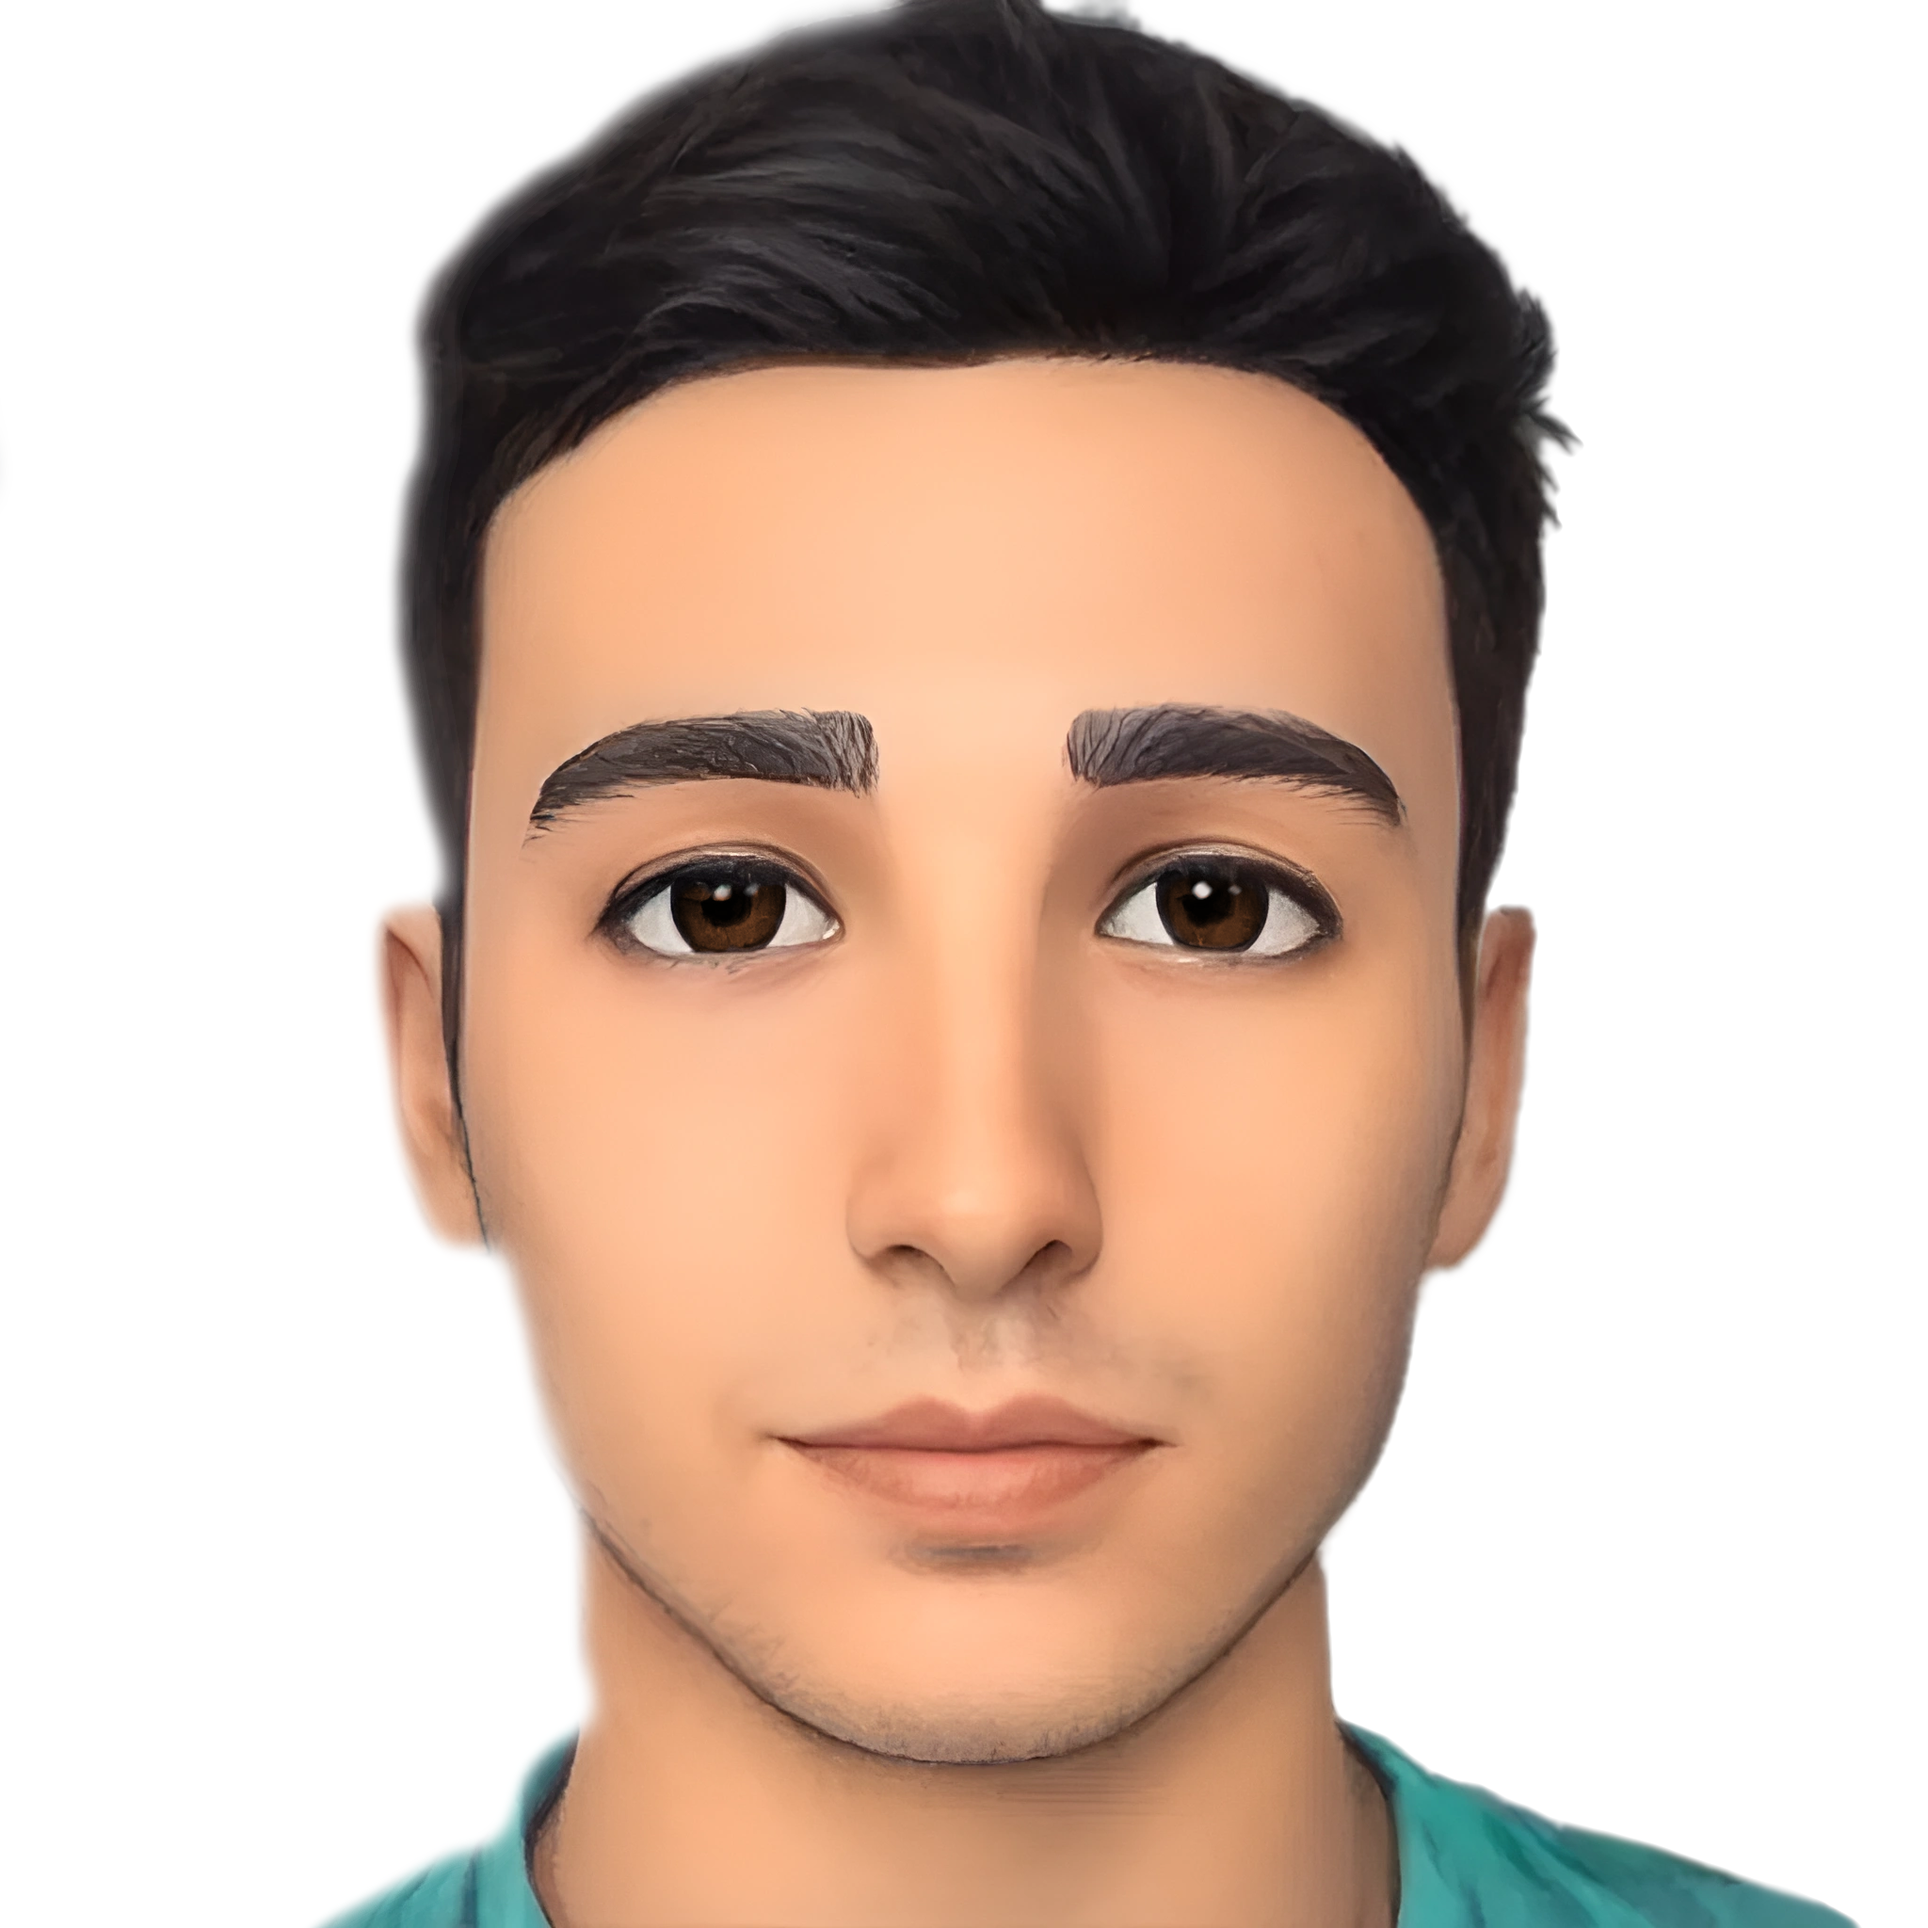
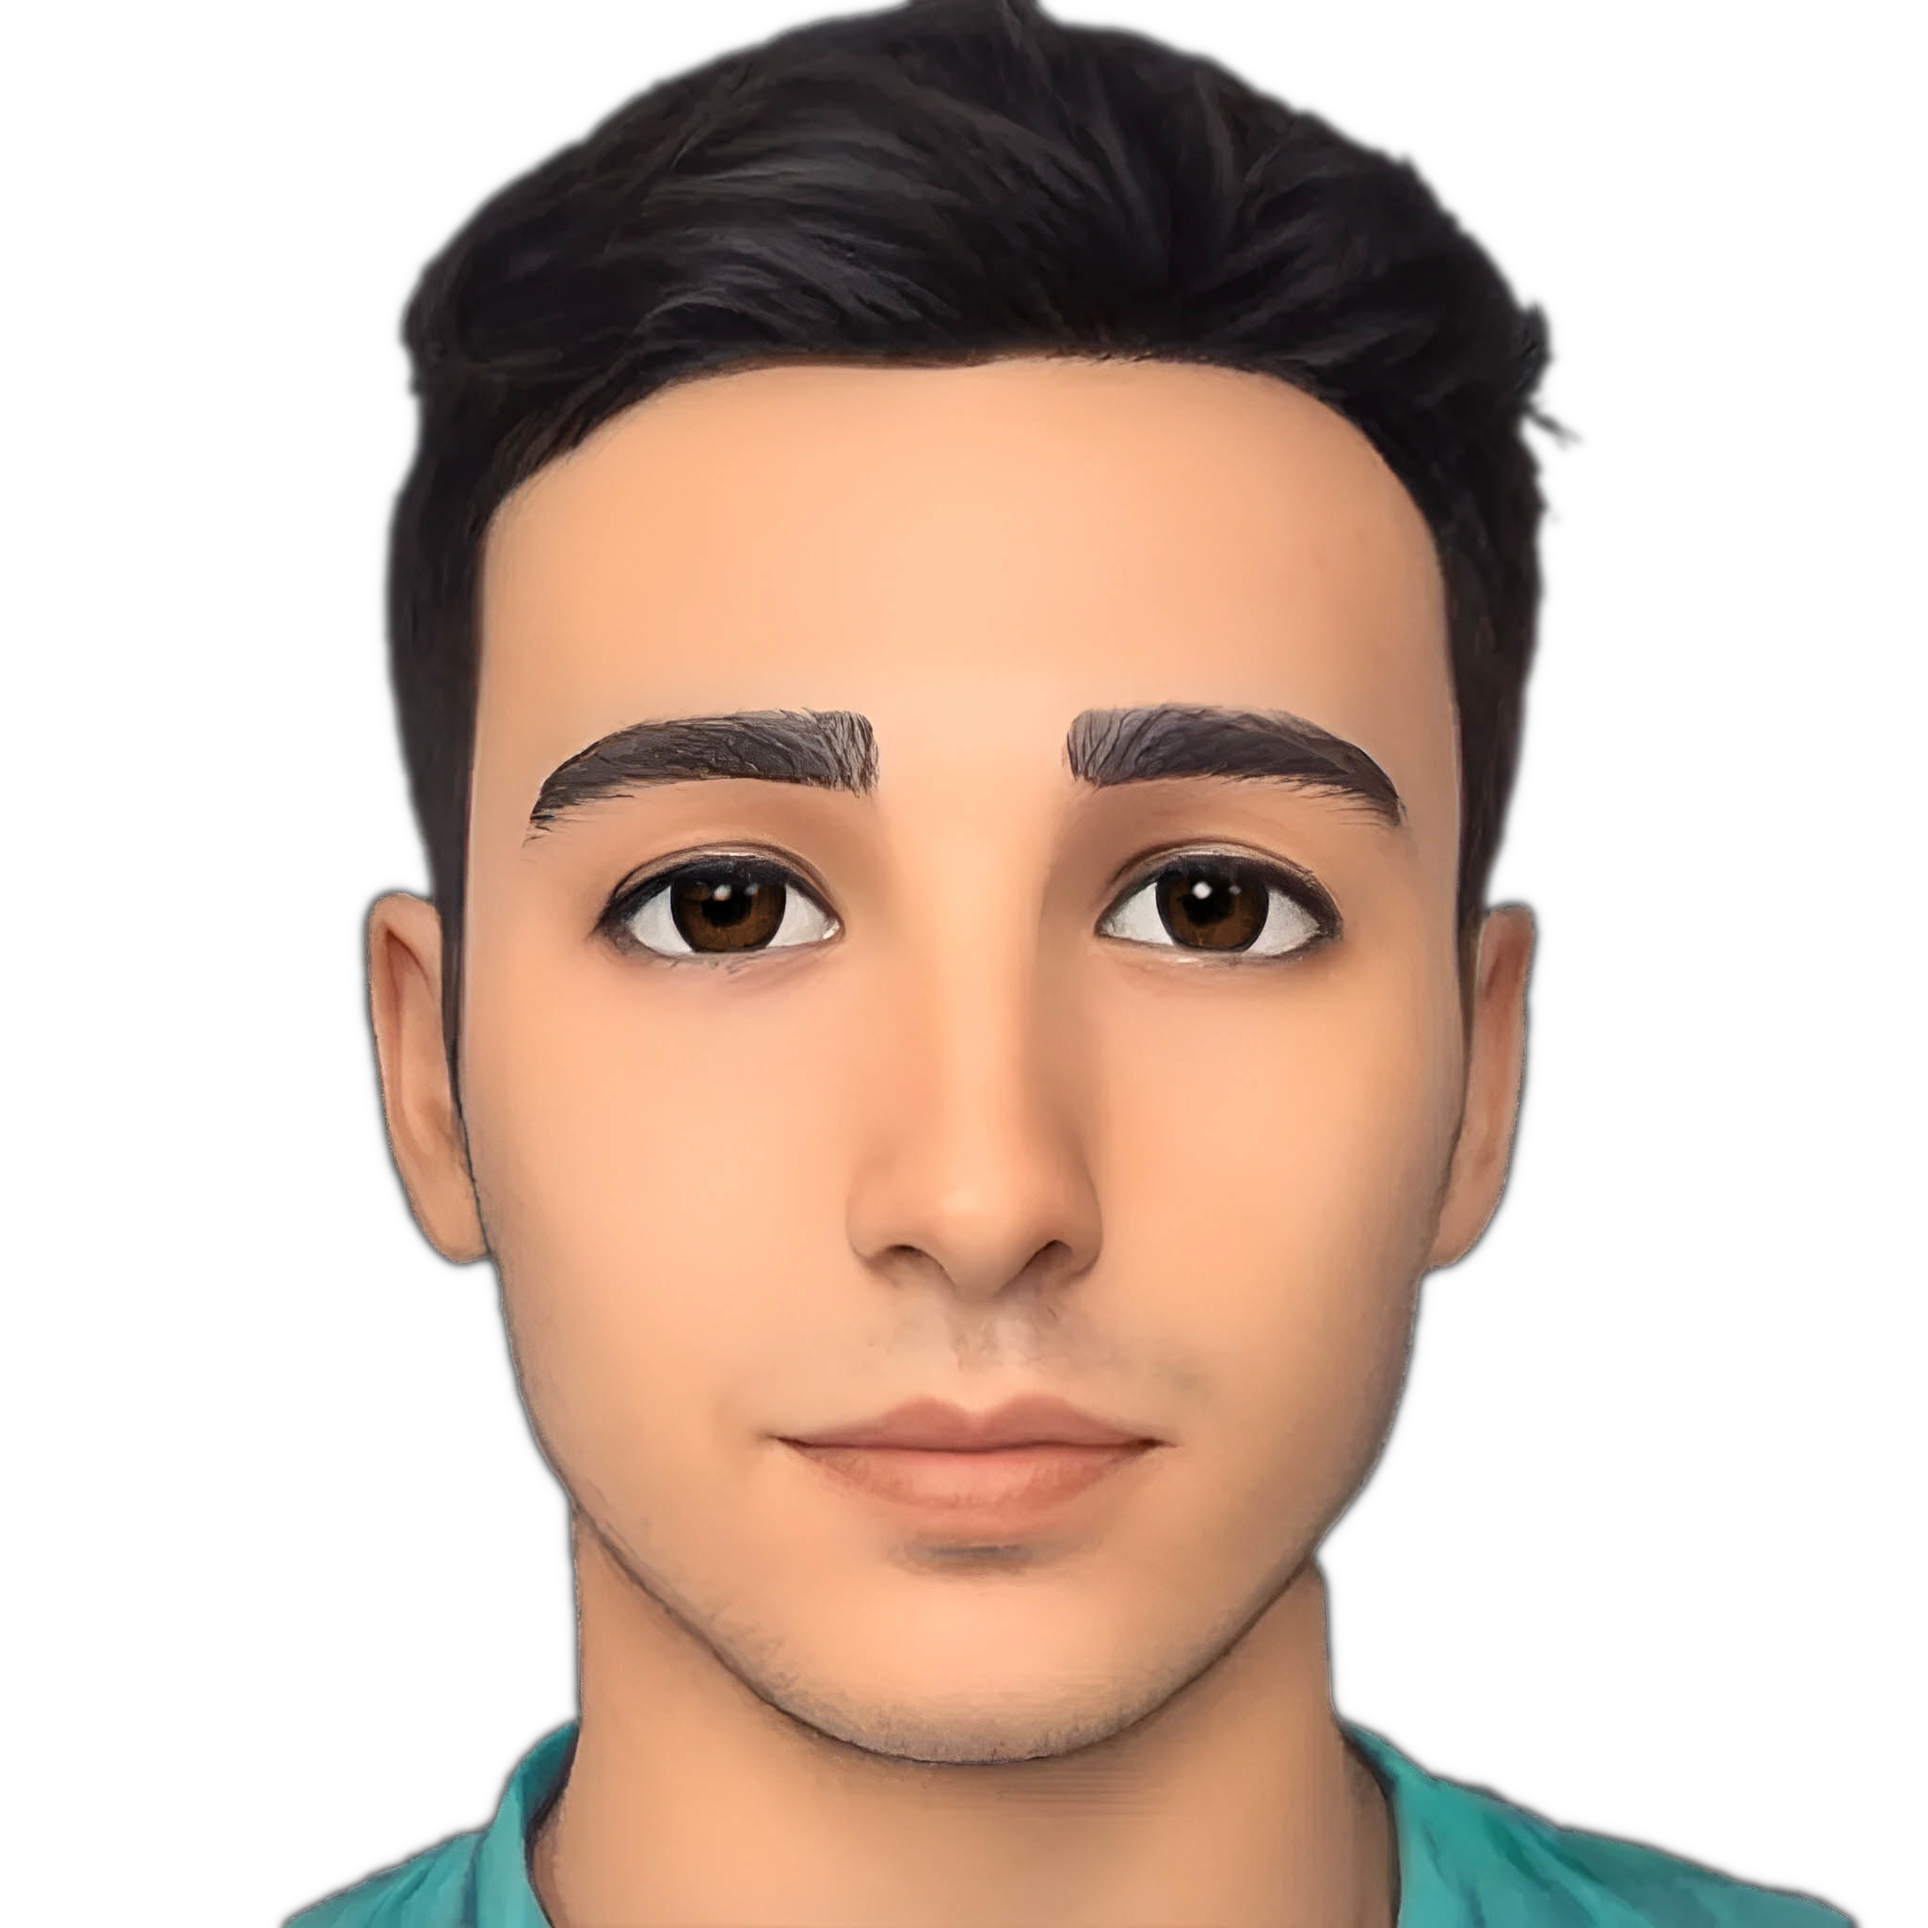
04/11/2022
-Se substituyo el avatar personal por el difinitivo

-Se modificaron estilos del borde y el avatar

diff --git a/css/main.css b/css/main.css
@@ -12,17 +12,19 @@
     background-image: url(../img/avatarPersonal.png);
     background-position: center;
     background-size: cover;
+    display: flex;
+    justify-content: center;
+    align-items: center;
     position: relative;
-    z-index: -1;
     border-radius: 50%;
-    width: 320px;
-    height: 320px;
-    /* box-shadow: 16px 0 9px 5px var(--acento-primario); */
+    box-shadow: inset 0px -8px 20px 1px var(--acento-primario);
+    width: 297px;
+    height: 297px;
 }
 
 .borde{
-    width: 100%;
-    height: 100%;
+    width: 305px;
+    height: 305px;
     border-radius: 50%;
     position: absolute;
     border-top: 3.2px solid #579486;
